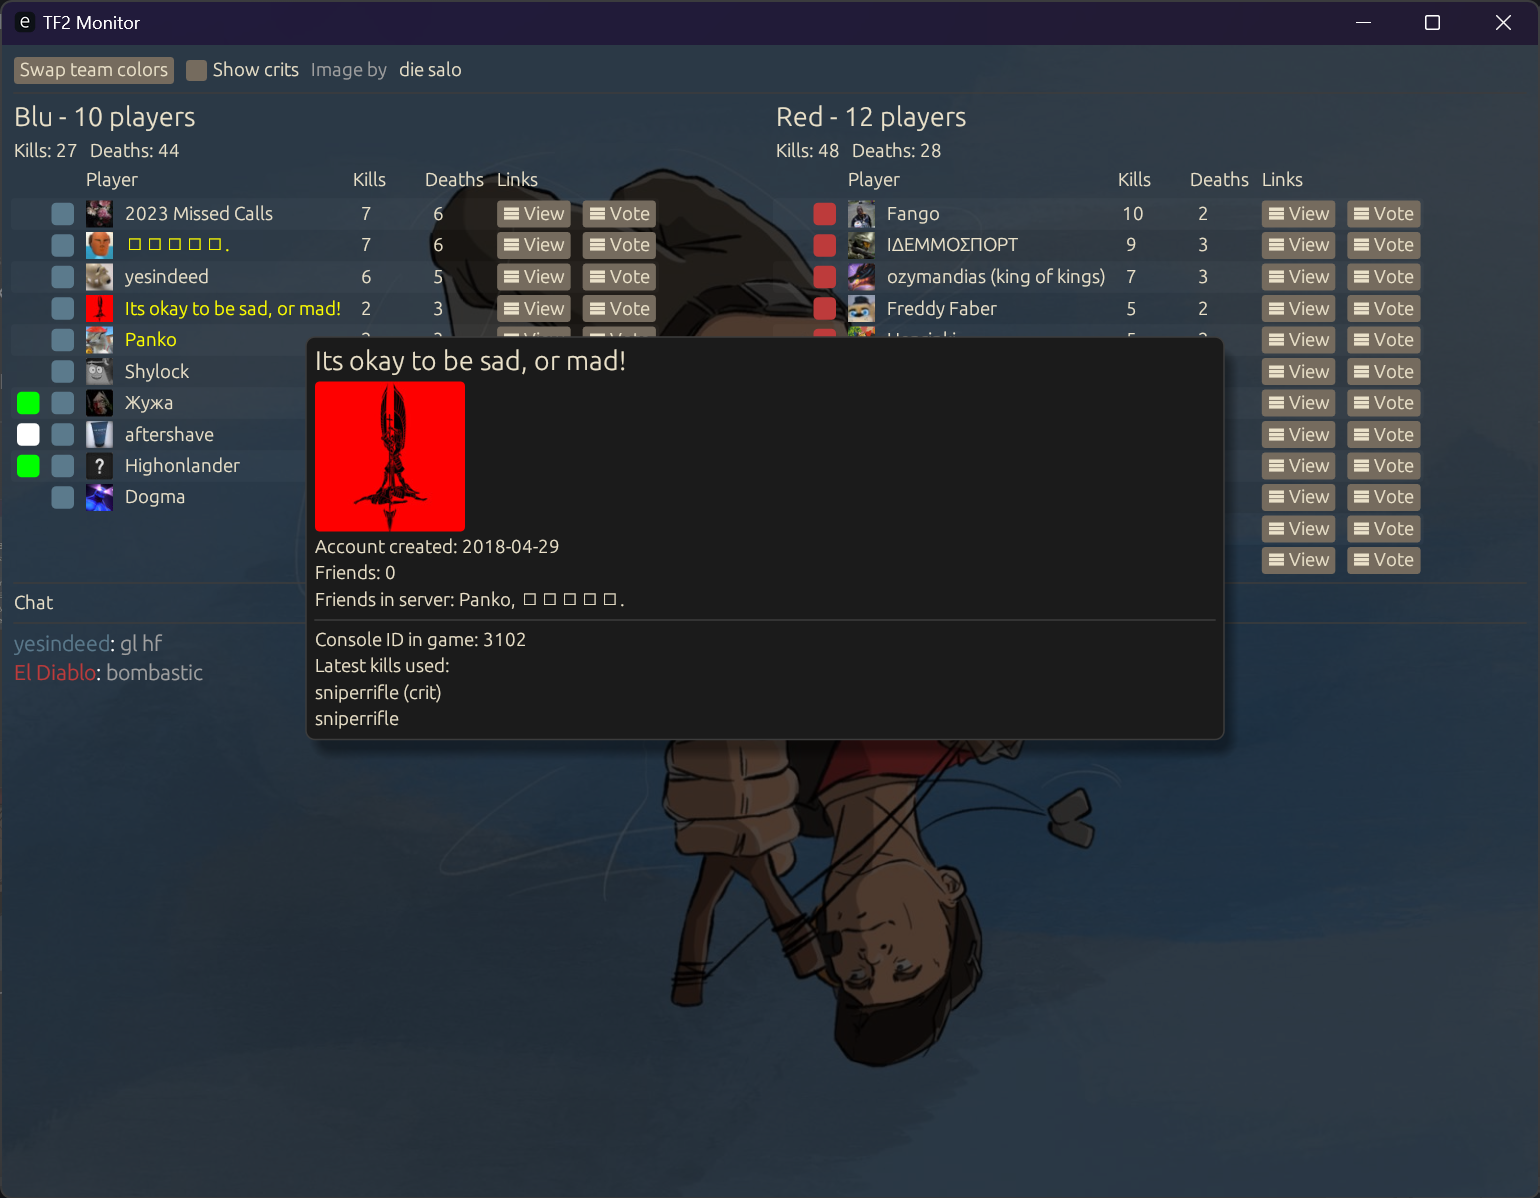
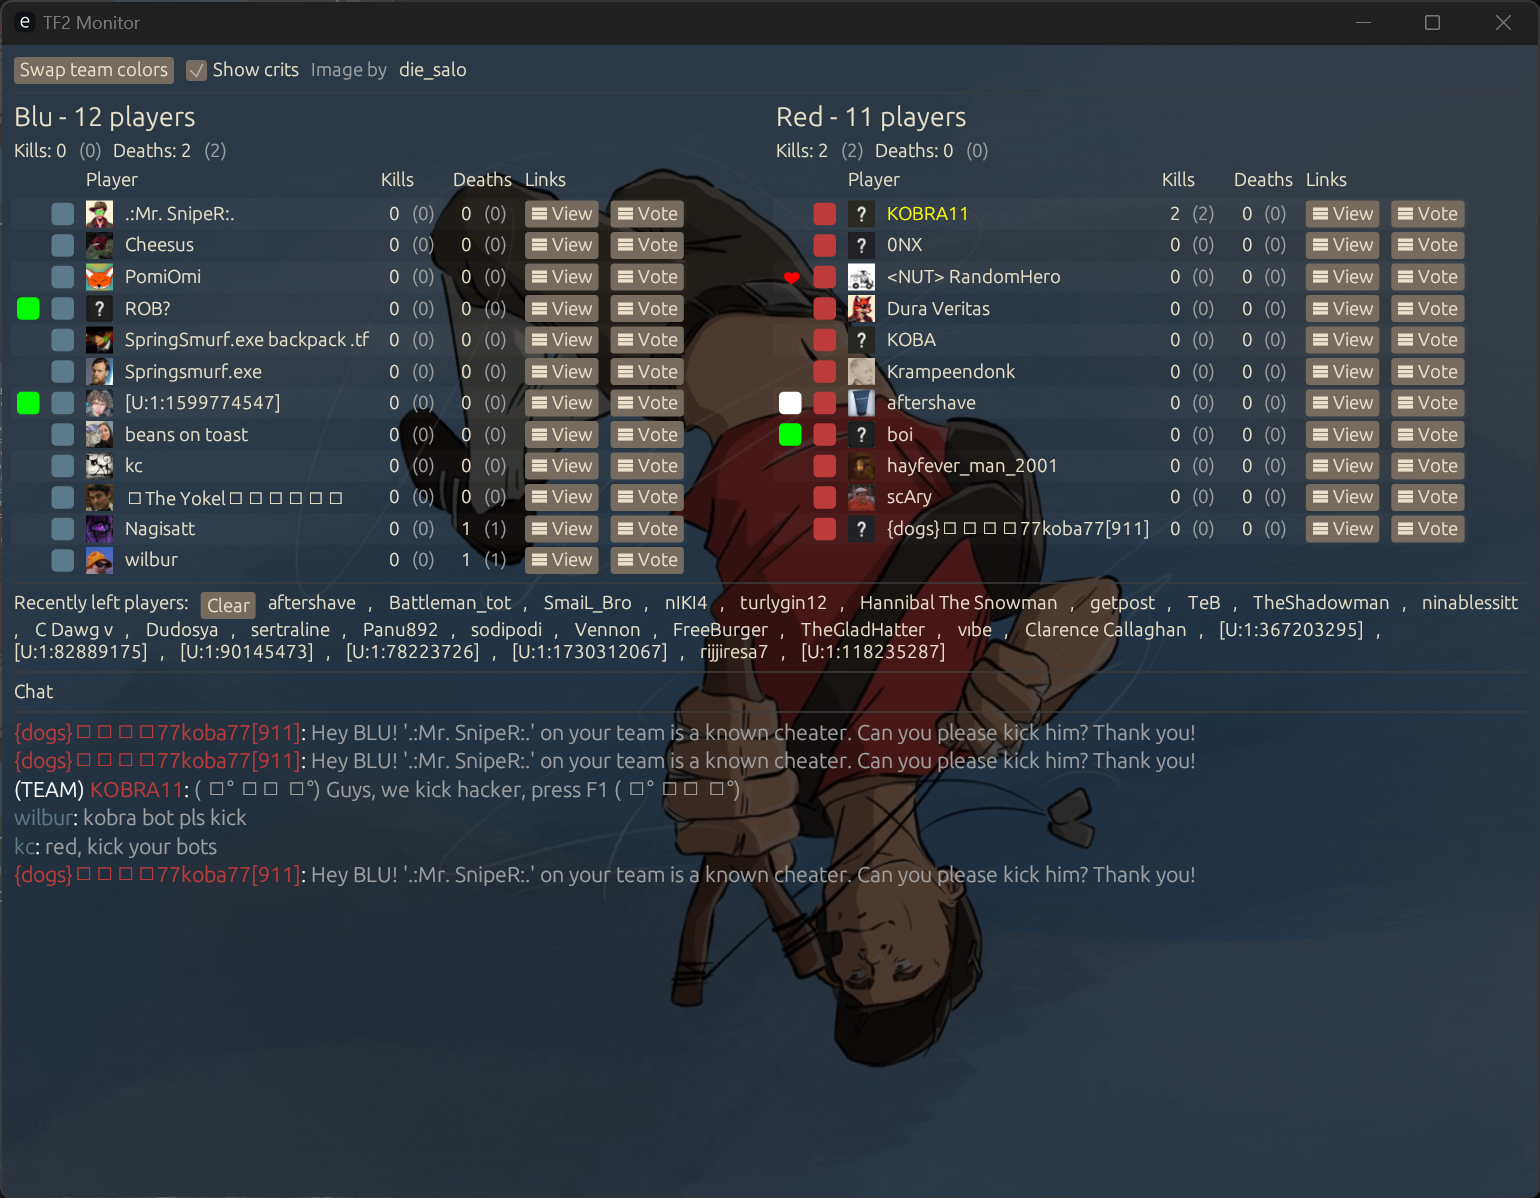
Added recently left list under scoreboard

Changed region(s): [[0.0, 0.1235, 0.9662, 0.7412], [0.0, 0.0, 0.4987, 0.0618], [0.9351, 0.4942, 0.9974, 0.525]]

diff --git a/src/gui/scoreboard_team.rs b/src/gui/scoreboard_team.rs
@@ -104,10 +104,11 @@ fn add_player_name(app_win: &mut AppWin, ui: &mut Ui, player: &Player) {
             let marked_color = Some(Color32::YELLOW);
             // log::info!("Selected player: {:?}", app_win.selected_player);
             if let Some(steamid) = app_win.selected_player {
-                // Mark selected player
                 if steamid == player.steamid {
+                    // Mark selected player
                     ui.visuals_mut().override_text_color = marked_color;
                     ui.style_mut().visuals.override_text_color = marked_color;
+                    ui.style_mut().visuals.extreme_bg_color = marked_color.unwrap();
                 } else {
                     // Mark friends of selected player
                     if let Some(steam_info) = &player.steam_info {
@@ -115,6 +116,7 @@ fn add_player_name(app_win: &mut AppWin, ui: &mut Ui, player: &Player) {
                             if friends.contains(&steamid) {
                                 ui.visuals_mut().override_text_color = marked_color;
                                 ui.style_mut().visuals.override_text_color = marked_color;
+                                ui.style_mut().visuals.extreme_bg_color = marked_color.unwrap();
                             }
                         }
                     }
@@ -277,11 +279,13 @@ fn add_links(ui: &mut Ui, player: &Player) {
 
     ui.horizontal(|ui| {
         ui.menu_button("☰ View", |ui| {
+            ui.label(format!("View {} on", player.name));
+            ui.separator();
             // ui.heading("View player on");
-            make_link(ui, player.steamid.steam_community_url(), "SteamCommunity");
-            make_link(ui, player.steamid.steam_history_url(), "SteamHistory");
-            make_link(ui, player.steamid.steam_rep_url(), "SteamRep");
-            make_link(ui, player.steamid.steam_id_url(), "SteamID");
+            make_link(ui, player.steamid.steam_community_url(), "- SteamCommunity");
+            make_link(ui, player.steamid.steam_history_url(), "- SteamHistory");
+            make_link(ui, player.steamid.steam_rep_url(), "- SteamRep");
+            make_link(ui, player.steamid.steam_id_url(), "- SteamID");
         });
     });
 }
@@ -289,8 +293,9 @@ fn add_links(ui: &mut Ui, player: &Player) {
 fn add_vote(ui: &mut Ui, bus: &Arc<Mutex<AppBus>>, player: &&Player) {
     ui.horizontal(|ui| {
         ui.menu_button("☰ Vote", |ui| {
-            ui.heading(format!("Kick {}", player.name));
-            if ui.button("Cheating").clicked() {
+            ui.label(format!("Kick {} for", player.name));
+            ui.separator();
+            if ui.button("- Cheating").clicked() {
                 log::info!("Vote to kick player '{}' for cheating", player.name);
                 let cmd = format!("callvote kick \"{} cheating\"", player.id);
                 bus.lock().unwrap().send_rcon_cmd(cmd.as_str());

diff --git a/src/tf2/lobby/lobby_thread.rs b/src/tf2/lobby/lobby_thread.rs
@@ -48,8 +48,6 @@ impl LobbyThread {
         loop {
             self.process_bus();
 
-            self.fetch_steam_info();
-
             self.update_scoreboard();
 
             self.fetch_steam_info();
@@ -140,7 +138,17 @@ impl LobbyThread {
 
     fn new_lobby(&mut self) {
         log::info!("Creating new lobby");
-        self.lobby = Lobby::new();
+
+        let mut new_lobby = Lobby::new();
+
+        new_lobby
+            .recently_left_players
+            .append(&mut self.lobby.players);
+        new_lobby
+            .recently_left_players
+            .append(&mut self.lobby.recently_left_players);
+
+        self.lobby = new_lobby;
     }
 
     /// Add this player to the list of players if not already added
@@ -265,18 +273,34 @@ impl LobbyThread {
         }
     }
 
-    /// Players who has a last_seen older than 30 seconds are removed from the lobby
+    /// Players who has a last_seen older than 12 seconds are removed from the lobby
+    /// and instead added to the recently_left collection.
+    /// Recently_left players remain there until 30 seconds has passed.
     fn purge_old_players(&mut self, when: DateTime<Local>) {
         let mut new_vec: Vec<Player> = vec![];
 
         for player in self.lobby.players.iter_mut() {
             let age_seconds = (when - player.last_seen).num_seconds();
-            if age_seconds < 20 {
+            if age_seconds < 12 {
                 // Player is still active, keep it
                 new_vec.push(player.clone());
+            } else {
+                // Player has left the game
+                self.lobby.recently_left_players.push(player.clone());
             }
         }
 
         self.lobby.players = new_vec;
+
+        let mut new_vec: Vec<Player> = vec![];
+
+        for player in self.lobby.recently_left_players.iter_mut() {
+            let age_seconds = (when - player.last_seen).num_seconds();
+            if age_seconds < 60 {
+                new_vec.push(player.clone());
+            }
+        }
+
+        self.lobby.recently_left_players = new_vec;
     }
 }

diff --git a/src/gui/recently_left.rs b/src/gui/recently_left.rs
@@ -1,0 +1,29 @@
+use crate::models::AppWin;
+use eframe::egui::{Color32, Ui};
+
+pub fn add_recently_left_players(app_win: &mut AppWin, ui: &mut Ui) {
+    if app_win.lobby.recently_left_players.is_empty() {
+        return;
+    }
+
+    ui.separator();
+
+    ui.horizontal_wrapped(|ui| {
+        ui.label("Recently left players:");
+        if ui.button("Clear").clicked() {
+            app_win.lobby.recently_left_players.clear();
+        }
+
+        let mut is_first = true;
+        for player in &app_win.lobby.recently_left_players {
+            if is_first {
+                is_first = false;
+            } else {
+                ui.label(", ");
+            }
+
+            ui.hyperlink_to(player.name.as_str(), player.steamid.steam_history_url())
+                .on_hover_text("View on Steam History");
+        }
+    });
+}

diff --git a/src/gui/scoreboard.rs b/src/gui/scoreboard.rs
@@ -1,6 +1,6 @@
 use super::{
     background_image::add_background_image, image_creds::add_image_creds,
-    scoreboard_team::scoreboard_team,
+    recently_left::add_recently_left_players, scoreboard_team::scoreboard_team,
 };
 use crate::{
     models::AppWin,
@@ -86,6 +86,8 @@ pub fn add_scoreboard(app_win: &mut AppWin, ui: &mut Ui) {
             .join(", ");
         ui.colored_label(Color32::GRAY, format!("Joined: {}", player_names));
     }
+
+    add_recently_left_players(app_win, ui);
 }
 
 fn cmp_for_scoreboard(a: &Player, b: &Player) -> std::cmp::Ordering {

diff --git a/src/tf2/lobby/mod.rs b/src/tf2/lobby/mod.rs
@@ -73,6 +73,7 @@ impl PlayerSteamInfo {
 pub struct Lobby {
     pub players: Vec<Player>,
     pub chat: Vec<LobbyChat>,
+    pub recently_left_players: Vec<Player>,
 }
 
 #[derive(Default, Debug, Clone)]
@@ -89,6 +90,7 @@ impl Lobby {
         Self {
             players: Vec::new(),
             chat: Vec::new(),
+            recently_left_players: Vec::new(),
         }
     }
 

diff --git a/src/tf2/lobby/add_steam_info.rs b/src/tf2/lobby/add_steam_info.rs
@@ -9,7 +9,7 @@ pub fn add_friends_from_steam(steam_api: &SteamApi, lobby: &mut Lobby) {
 
     // The fetching is synchronous, so we limit the amount of fetches
     // to allow for other info to be processed in between
-    const MAX_FETCHES: usize = 4;
+    const MAX_FETCHES: usize = 3;
 
     // The list of players that
     // - Has basic info from Steam fetched

diff --git a/src/gui/mod.rs b/src/gui/mod.rs
@@ -3,6 +3,7 @@ pub mod chat;
 pub mod colors;
 pub mod image_creds;
 pub mod player_tooltip;
+pub mod recently_left;
 pub mod scoreboard;
 pub mod scoreboard_team;
 

diff --git a/README.md b/README.md
@@ -28,6 +28,8 @@ First column in the table is:
 
 Hover on a player to show its friends. Players marked yellow are friends. Tooltip for a player also shows the friend's names.
 
+Under scoreboard there's a list of players that left recently. Names are links to SteamHistory for now. They remain there for 1 minute.
+
 # What about VAC?
 
 This application does not alter any game file or intervene with the TF2 process and memory in any way. This is completely VAC safe.
